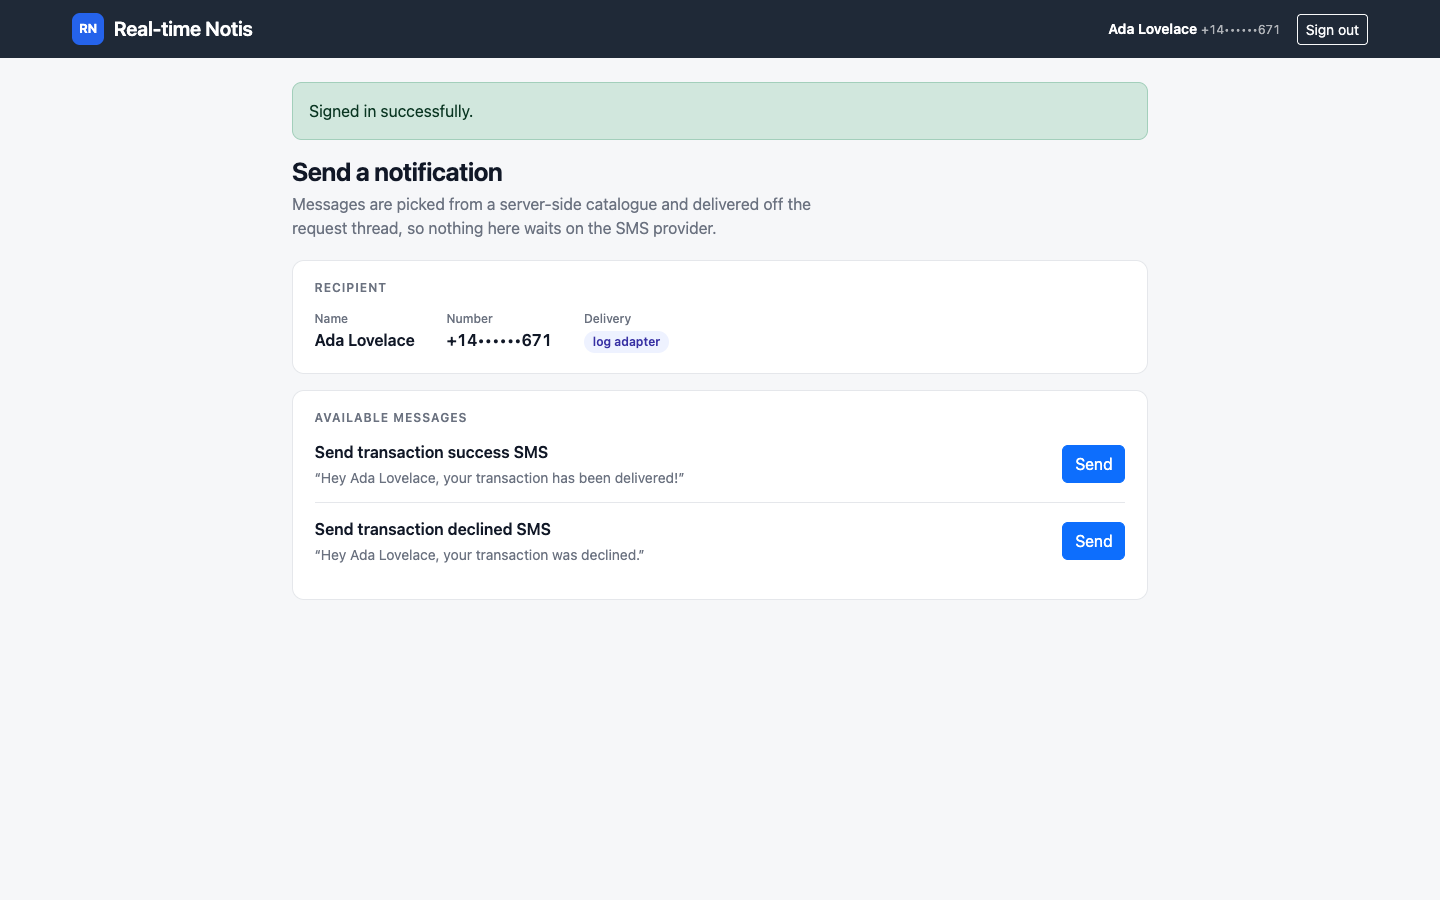
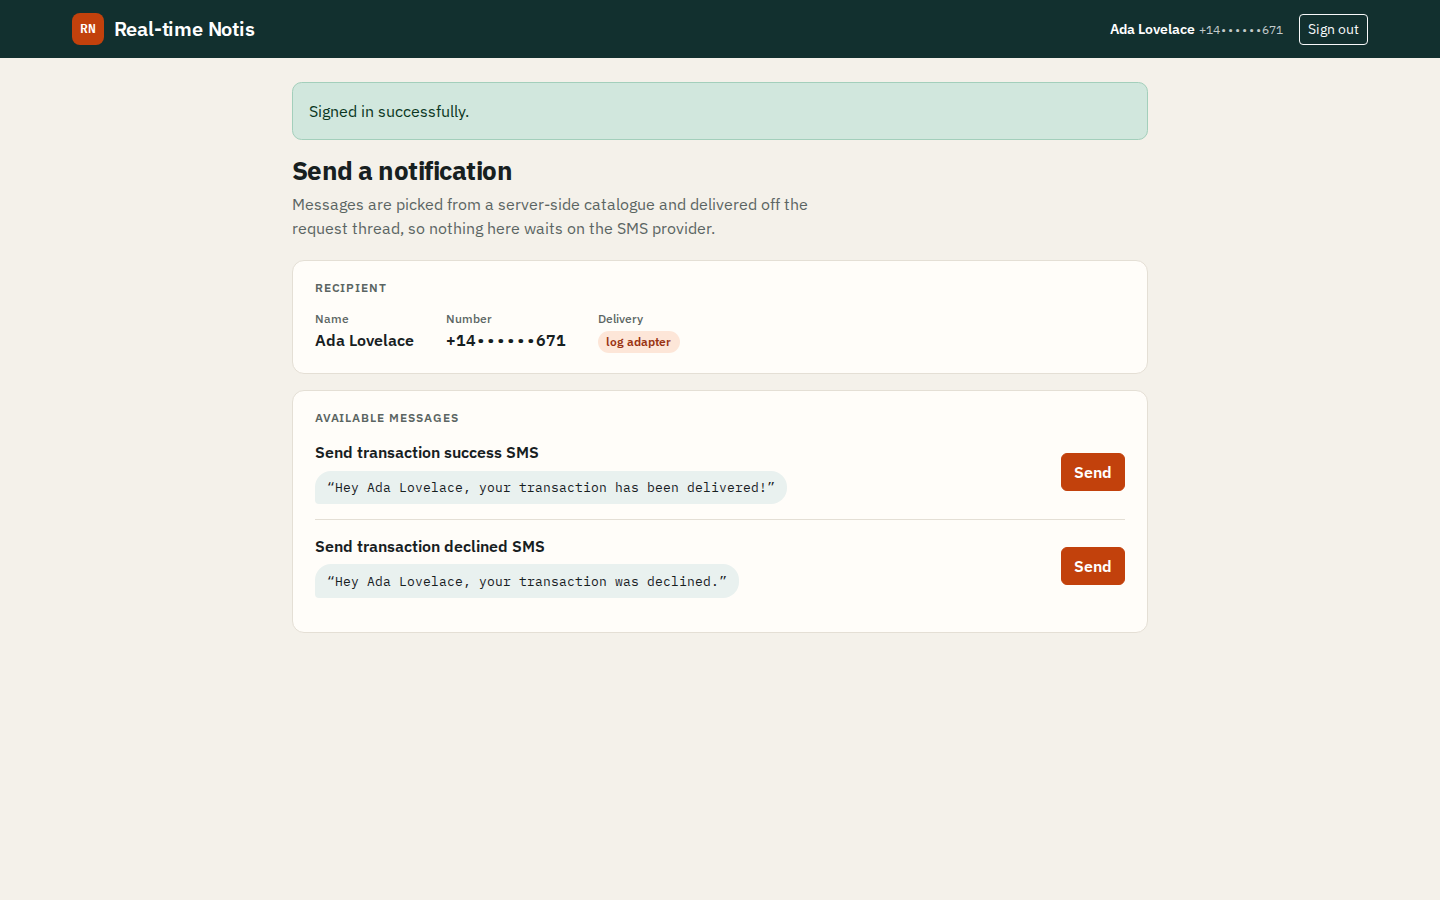
Document the verified Compose path and refresh screenshots
The README described the Docker setup as never built or booted. It now
gives the three commands that bring the stack up from a clean checkout,
the Ruby 3.4 / Rails 8.1 versions, the new SECRET_KEY_BASE, REDIS_URL,
FORCE_SSL and WEB_CONCURRENCY variables, and what Action Cable does and
does not do. The json pin and master-key notes are gone with the code
they described.

Screenshots were recaptured from the Compose stack with the demo
account, adding two at phone width. captured-output.md has fresh
transcripts for the allow-list, health check, cable handshake, tests,
lint and dependency audit, and dates the older latency and mutation runs.

diff --git a/README.md b/README.md
@@ -1,23 +1,24 @@
 # Real-time Notis
 
-A small Rails 7.1 app that sends transactional SMS to the signed-in user.
+A small Rails 8.1 app that sends transactional SMS to the signed-in user.
 People register with a phone number, get a welcome text, and can trigger one
 of a fixed set of messages from a single dashboard. Twilio delivers them —
 but with no Twilio credentials configured the app falls back to a log
 adapter, so the whole thing runs end to end on a laptop with no account and
 no spend.
 
-**A note on the name.** There is no WebSocket, Action Cable or browser-push
-layer in this repository. `app/channels/` holds the two unmodified classes
-`rails new` generates and `config/cable.yml` is stock. "Real-time" here means
-a text message goes out the moment an event happens, not that the browser
-gets pushed to. If you came looking for a broadcast pipeline, it is not here.
+**A note on the name.** "Real-time" here means a text message goes out the
+moment an event happens, not that the browser gets pushed to. Action Cable is
+mounted at `/cable` and only accepts signed-in users (Redis backs it in
+production), but no channel is defined and nothing is broadcast yet. If you
+came looking for a browser push pipeline, it is not here.
 
 ## The one screen
 
 Everything a signed-in user can do fits on one page: see which number the
-message will go to, and press one of two buttons. The "log adapter" pill is
-the app telling you no Twilio credentials are configured.
+message will go to, and press one of two buttons. Each message is previewed
+as the text that will arrive. The "log adapter" pill is the app telling you
+no Twilio credentials are configured.
 
 | Dashboard | After pressing Send |
 | --- | --- |
@@ -30,9 +31,16 @@ row is written:
 | --- | --- |
 | ![Sign-up](docs/screenshots/01-sign-up.png) | ![Validation error](docs/screenshots/04-validation-error.png) |
 
-All four were captured at 1440×900 against the app running locally on the log
-adapter. Request transcripts, the latency measurement and the test output are
-in [docs/captured-output.md](docs/captured-output.md).
+On a phone each message stacks above a full-width Send button:
+
+| Dashboard, 390×844 | After pressing Send, 390×844 |
+| --- | --- |
+| ![Dashboard on a phone](docs/screenshots/02-dashboard-mobile.png) | ![Message queued on a phone](docs/screenshots/03-message-queued-mobile.png) |
+
+All six were captured with Playwright against the Docker Compose stack on the
+log adapter, signed in as the seeded demo account. Request transcripts, the
+latency measurement and the test output are in
+[docs/captured-output.md](docs/captured-output.md).
 
 ## From button press to text message
 
@@ -73,31 +81,46 @@ is durably committed.
 
 ## Running it without a Twilio account
 
-Requires Ruby 3.2.2 and PostgreSQL.
+### With Docker Compose
+
+The stack is the production image plus PostgreSQL 16 and Redis 7. It needs
+nothing but Docker:
+
+```bash
+cp .env.example .env
+echo "SECRET_KEY_BASE=$(openssl rand -hex 64)" >> .env
+docker compose up --build        # http://localhost:8860
+```
+
+The first boot creates the database, runs the migrations and seeds a demo
+account. Sign in as `demo@example.com` / `correct horse battery`, or register
+a new one. With the `TWILIO_*` values left empty, messages go to the web
+container's log instead of a phone:
+
+```bash
+docker compose logs web | grep sms:log
+# [sms:log] to=+14••••••671 body="Hey Ada Lovelace, your transaction has been delivered!"
+```
+
+Compose sets `FORCE_SSL=false` so the app answers on plain
+`http://localhost`. Behind a TLS-terminating proxy, leave it unset and SSL is
+forced as usual. `docker compose down -v` removes the stack and its data.
+
+### Without Docker
+
+Requires Ruby 3.4.12 (see `.ruby-version`) and a local PostgreSQL.
 
 ```bash
 bundle install
-bin/rails db:prepare db:seed
+bin/rails db:prepare
 bin/rails server
 ```
 
-Open <http://localhost:3000> and sign in as `demo@example.com` /
-`correct horse battery`, or register a new account. With no `TWILIO_*`
-variables set, messages land in `log/development.log` instead of a phone:
+Open <http://localhost:3000>. Development uses the in-process async adapter
+for Action Cable, so Redis is not needed. Messages land in
+`log/development.log`.
 
-```
-[sms:log] to=+14••••••671 body="Hey Ada Lovelace, your transaction has been delivered!"
-```
-
-Set the three `TWILIO_*` variables to send for real. With Docker:
-
-```bash
-docker compose up --build   # http://localhost:8860
-```
-
-The compose file and `Dockerfile` are committed and `docker compose config`
-parses, but the image has not been built or booted here — treat it as
-unverified.
+Fill in the three `TWILIO_*` variables to send for real.
 
 ## When the provider is slow or down
 
@@ -168,18 +191,21 @@ renders as `+14••••••671` in the UI, in flash messages and in log li
 
 ## Environment variables
 
-Every one is optional. The app boots and works with none of them set.
+Outside production every one is optional, and the app boots and works with
+none of them set. `.env.example` lists the ones Compose reads.
 
 | Name | Required | Default | Purpose |
 | --- | --- | --- | --- |
+| `SECRET_KEY_BASE` | Production and Compose | — | Session and cookie signing. Compose refuses to start without it. |
 | `DATABASE_URL` | No | from `config/database.yml` | PostgreSQL connection. Overrides the YAML when set. |
+| `REDIS_URL` | Production | `redis://localhost:6379/1` | Action Cable pub/sub. Compose points it at its `redis` service. |
+| `FORCE_SSL` | No | `true` in production | `false` serves plain HTTP. Compose sets it to `false`. |
 | `TWILIO_ACCOUNT_SID` | For real SMS | credentials `twilio.account_sid` | Twilio account SID. |
 | `TWILIO_AUTH_TOKEN` | For real SMS | credentials `twilio.auth_token` | Twilio auth token. |
 | `TWILIO_FROM_NUMBER` | For real SMS | credentials `twilio.from_number` | Sending number, E.164. |
 | `SMS_ADAPTER` | No | `twilio` if all three above are set, else `log` | Forces an adapter by name. |
 | `QUEUE_ADAPTER` | No | `async` | Active Job backend. `async` is in-process — use a durable one in production. |
-| `RAILS_MASTER_KEY` | Production only | — | Decrypts `config/credentials.yml.enc`. Not needed if you use the `TWILIO_*` variables. |
-| `SECRET_KEY_BASE` | Production only | — | Session and cookie signing. Required if `RAILS_MASTER_KEY` is absent. |
+| `WEB_CONCURRENCY` | No | CPU count; `2` in Compose | Puma worker processes in production. |
 | `DEVISE_SECRET_KEY` | No | `secret_key_base` | Overrides Devise's token secret. |
 | `DEVISE_PEPPER` | No | none | Password pepper. Changing it invalidates existing passwords. |
 | `MAILER_SENDER` | No | `no-reply@example.com` | `From:` on Devise emails. |
@@ -190,7 +216,7 @@ Every one is optional. The app boots and works with none of them set.
 ## Working on the code
 
 ```bash
-bundle exec rspec       # 57 examples
+bundle exec rspec       # 60 examples
 bundle exec rubocop     # rubocop-rails-omakase
 bin/rails db:seed       # idempotent demo account
 ```
@@ -205,29 +231,35 @@ The SMS layer lives in `app/services/sms/`: `deliverer.rb` is the port and
 the named adapter registry, `message_catalog.rb` holds every sendable message
 and who may trigger it, `twilio_adapter.rb` and `log_adapter.rb` are the two
 implementations, and `result.rb` is the value object they return.
-`app/jobs/send_sms_job.rb` is the only caller of an adapter. `test/` is a
-vestigial Minitest tree that runs zero tests — RSpec is the real suite.
-
-`json` is pinned to the 2.x line in the `Gemfile`, with a comment explaining
-why: Rails 7.1's `ActiveSupport::JSON::Encoding` calls
-`JSON.generate(..., quirks_mode: true)`, a keyword json 3 removed, and
-RuboCop's `json >= 2.3` dependency is enough to resolve json 3 without the pin.
+`app/jobs/send_sms_job.rb` is the only caller of an adapter.
+`app/channels/application_cable/connection.rb` identifies each socket by the
+Devise user and rejects anonymous ones, so a future channel can scope its
+streams to `current_user`. `test/` holds only the Minitest helpers `rails new`
+generated; RSpec is the real suite.
 
 ## What this does not do
 
-- **No WebSocket, Action Cable or browser push**, despite the name.
+- **No Action Cable channels or browser push**, despite the name. The
+  connection layer is authenticated, but nothing subscribes or broadcasts.
 - **No delivery confirmation.** The dashboard says *queued*, not delivered.
   Twilio status callbacks are not implemented.
 - **No delivery record at all.** Nothing is written to the database when a
   message is sent, so there is no history, no audit trail and no idempotency
   key — a retried job sends the message a second time.
 - **`QUEUE_ADAPTER=async` loses queued messages on restart.** It is an
-  in-process thread pool with no persistence.
+  in-process thread pool with no persistence. That includes the demo
+  account's welcome text, which is enqueued during the first-boot seed by a
+  process that exits straight away.
 - **No rate limiting.** The allow-list caps *what* can be sent, not how
   often. A real deployment needs a per-user throttle.
 - **Phone numbers are never verified.** Anyone can register with someone
   else's number and cause a text to be sent to it.
-- **`config/credentials.yml.enc` is committed without its master key**, so it
-  cannot be decrypted. The `TWILIO_*` variables exist partly because of that.
+- **No encrypted credentials file is shipped.** `Sms::TwilioAdapter` still
+  falls back to `twilio.*` in Rails credentials if you add your own, but the
+  `TWILIO_*` variables are the supported path.
 - **One dashboard, two messages.** The catalogue is a frozen constant, so
   changing the copy means a deploy.
+
+## Licence
+
+MIT. See [LICENSE](LICENSE).

diff --git a/docs/captured-output.md b/docs/captured-output.md
@@ -1,41 +1,41 @@
 # Captured output
 
-Everything below was produced by running this application locally on
-2026-09-25: Ruby 3.2.2, Rails 7.1.2, PostgreSQL 16, the Rails server on
-port 8860, no Twilio credentials configured (so the `log` adapter is
-active). Commands and responses are copied verbatim.
+Sections 1, 3, 4, 5 and 7 were captured on 2026-11-09 from the Docker Compose
+stack (the production image on Ruby 3.4.12 and Rails 8.1.4.1, PostgreSQL 16,
+Redis 7, no Twilio credentials so the `log` adapter is active), published on
+host port 18860 via `WEB_PORT`. The test suite ran in a `ruby:3.4.12`
+container against PostgreSQL 16 with networking disabled. Sections 2 and 6
+are older measurements, dated where they appear. Commands and responses are
+copied verbatim.
 
 ## 1. The message allow-list
 
 `POST /messages` accepts a catalogue *key*, never message text. Only keys
-flagged `user_triggerable` are accepted; `welcome` is system-only.
+flagged `user_triggerable` are accepted; `welcome` is system-only. A signed-in
+session sent each key in turn and then read the flash:
 
 ```
-$ curl -X POST /messages -d "message_key=transaction_success"
-  -> HTTP 302, 0.010969s
-  flash[status]: Send transaction success SMS queued for +14••••••671.
-
-$ curl -X POST /messages -d "message_key=welcome"
-  -> HTTP 302, 0.007354s
-  flash[alert]: That message is not one you can send.
-
-$ curl -X POST /messages -d "message_key=Call 1-900-PREMIUM to claim your prize"
-  -> HTTP 302, 0.007555s
-  flash[alert]: That message is not one you can send.
+POST /users (sign up)  -> HTTP 303 http://127.0.0.1:18860/
+POST /messages message_key='transaction_success' -> HTTP 302 http://127.0.0.1:18860/ (9 ms); flash: ['Send transaction success SMS queued for +14••••••671.']
+POST /messages message_key='welcome' -> HTTP 302 http://127.0.0.1:18860/ (12 ms); flash: ['That message is not one you can send.']
+POST /messages message_key='Call 1-900-PREMIUM to claim your prize' -> HTTP 302 http://127.0.0.1:18860/ (13 ms); flash: ['That message is not one you can send.']
 ```
 
-Only the first request enqueued anything:
+Only the first request enqueued anything (`docker compose logs web`):
 
 ```
-[ActiveJob] Enqueued SendSmsJob (Job ID: 2c4caa70-cadc-4bca-87e6-b9b27da26345) to Async(default) with arguments: {:user_id=>1, :message_key=>"transaction_success"}
-[ActiveJob] [SendSmsJob] [2c4caa70-...] [sms:log] to=+14••••••671 body="Hey Ada Lovelace, your transaction has been delivered!"
-[ActiveJob] [SendSmsJob] [2c4caa70-...] Performed SendSmsJob (Job ID: 2c4caa70-...) from Async(default) in 1.6ms
+[ActiveJob] Enqueued SendSmsJob (Job ID: 35941177-5872-45c4-9644-48bb158012a7) to Async(default) with arguments: {user_id: 2, message_key: "transaction_success"}
+[ActiveJob] [SendSmsJob] [35941177-...] [sms:log] to=+14••••••671 body="Hey Ada Lovelace, your transaction has been delivered!"
+[ActiveJob] [SendSmsJob] [35941177-...] Performed SendSmsJob (Job ID: 35941177-...) from Async(default) in 2.7ms
 ```
 
 Note the number is masked in the log line: phone numbers are PII and the
 adapter never writes one in full.
 
 ## 2. Request latency when the provider is slow
+
+Measured on 2026-09-25 against the earlier Rails 7.1 build. The request path
+(controller, catalogue check, `perform_later`) has not changed since.
 
 The provider was made to take 1.5 s per call (an `sleep(1.5)` patched into
 the log adapter for the duration of this measurement only). Three requests
@@ -61,28 +61,45 @@ queued version is bounded by the database instead.
 ## 3. Health check
 
 ```
-$ curl -s -o /dev/null -w "status=%{http_code}\n" http://127.0.0.1:8860/up
+$ curl -s -o /dev/null -w "status=%{http_code}\n" http://127.0.0.1:18860/up
 status=200
 
-$ curl -s -o /dev/null -w "status=%{http_code} redirect=%{redirect_url}\n" http://127.0.0.1:8860/
-status=302 redirect=http://127.0.0.1:8860/users/sign_in
+$ curl -s -o /dev/null -w "status=%{http_code} redirect=%{redirect_url}\n" http://127.0.0.1:18860/
+status=302 redirect=http://127.0.0.1:18860/users/sign_in
 ```
 
-## 4. Test suite
+## 4. Action Cable
+
+A raw WebSocket handshake to `/cable` with the `actioncable-v1-json`
+subprotocol, once with no cookie and once with the session cookie of a
+signed-in user. The first frame the server sent back:
+
+```
+anonymous : HTTP/1.1 101 Switching Protocols {"type":"disconnect","reason":"unauthorized","reconnect":false}
+signed in : HTTP/1.1 101 Switching Protocols {"type":"welcome"}
+```
+
+The server logged the first as `An unauthorized connection attempt was
+rejected`. The signed-in connection subscribes to its internal channel
+through Redis, which is why production needs `REDIS_URL`.
+
+## 5. Test suite
 
 ```
 $ bundle exec rspec
-.........................................................
-Coverage report generated for RSpec to .../coverage. 144 / 178 LOC (80.9%) covered.
+............................................................
+Finished in 2.21 seconds (files took 1.27 seconds to load)
+60 examples, 0 failures
 
-Finished in 0.88629 seconds (files took 1.49 seconds to load)
-57 examples, 0 failures
+Coverage report generated for RSpec to coverage/index.html
+Line coverage: 149 / 155 (96.12%)
 ```
 
-### The suite can fail
+## 6. The suite can fail
 
-Each fixed defect was reintroduced one at a time and the suite re-run, to
-confirm the tests are load-bearing rather than decorative:
+Recorded on 2026-09-25, when the suite had 57 examples. Each fixed defect was
+reintroduced one at a time and the suite re-run, to confirm the tests are
+load-bearing rather than decorative:
 
 | Mutation | Result |
 | --- | --- |
@@ -91,9 +108,12 @@ confirm the tests are load-bearing rather than decorative:
 | Welcome SMS moved back into `after_create` with `raise ActiveRecord::Rollback` | 57 examples, **5 failures** |
 | all reverted | 57 examples, 0 failures |
 
-## 5. Linter
+## 7. Linter and dependency audit
 
 ```
 $ bundle exec rubocop
-54 files inspected, no offenses detected
+52 files inspected, no offenses detected
+
+$ bundle-audit check --update
+No vulnerabilities found
 ```
